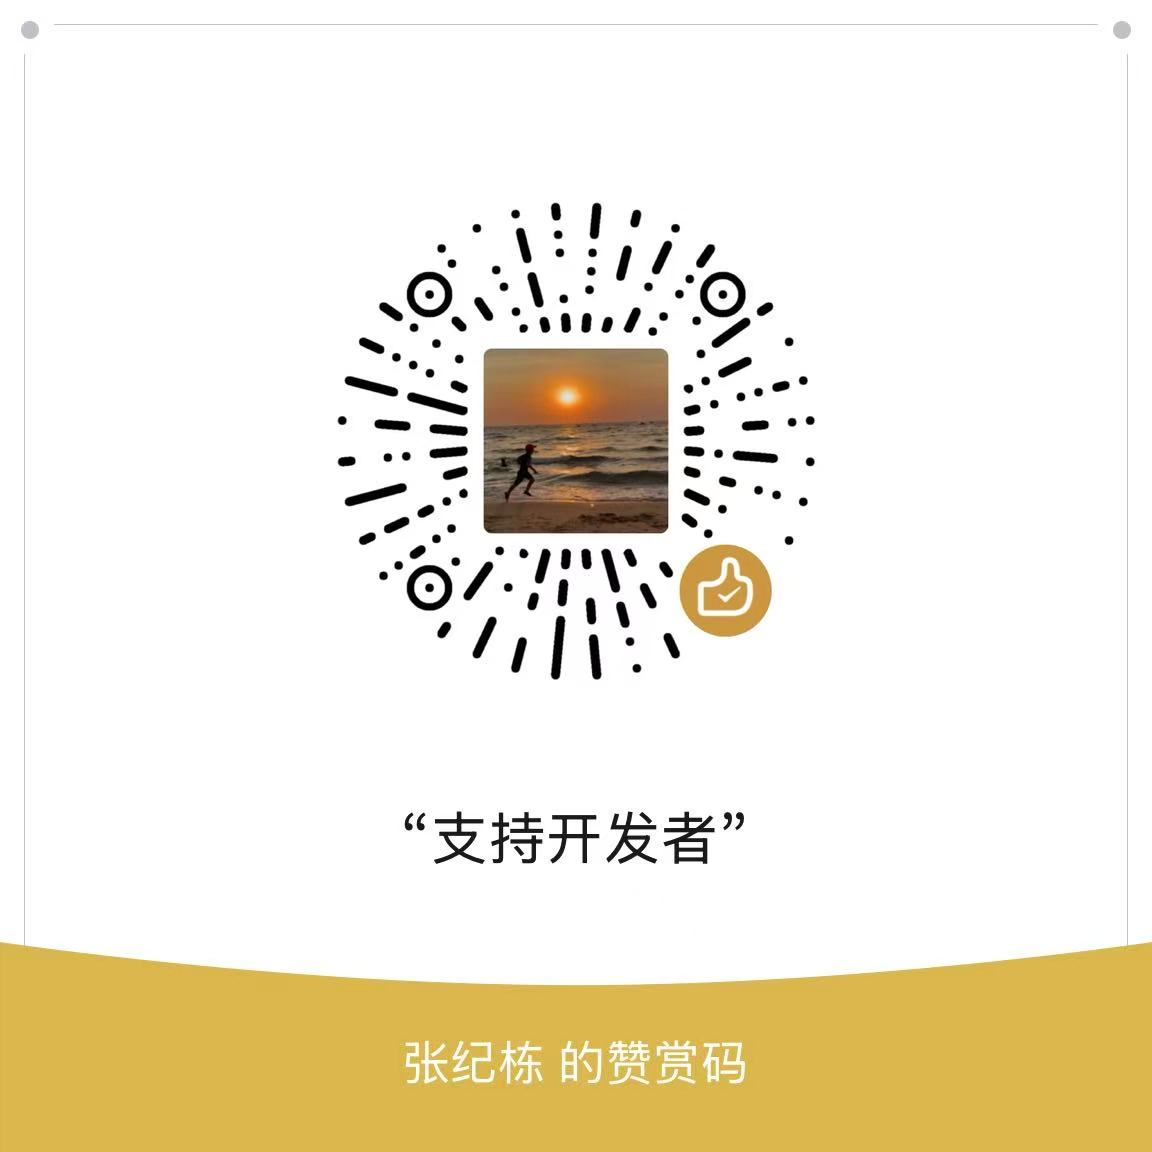
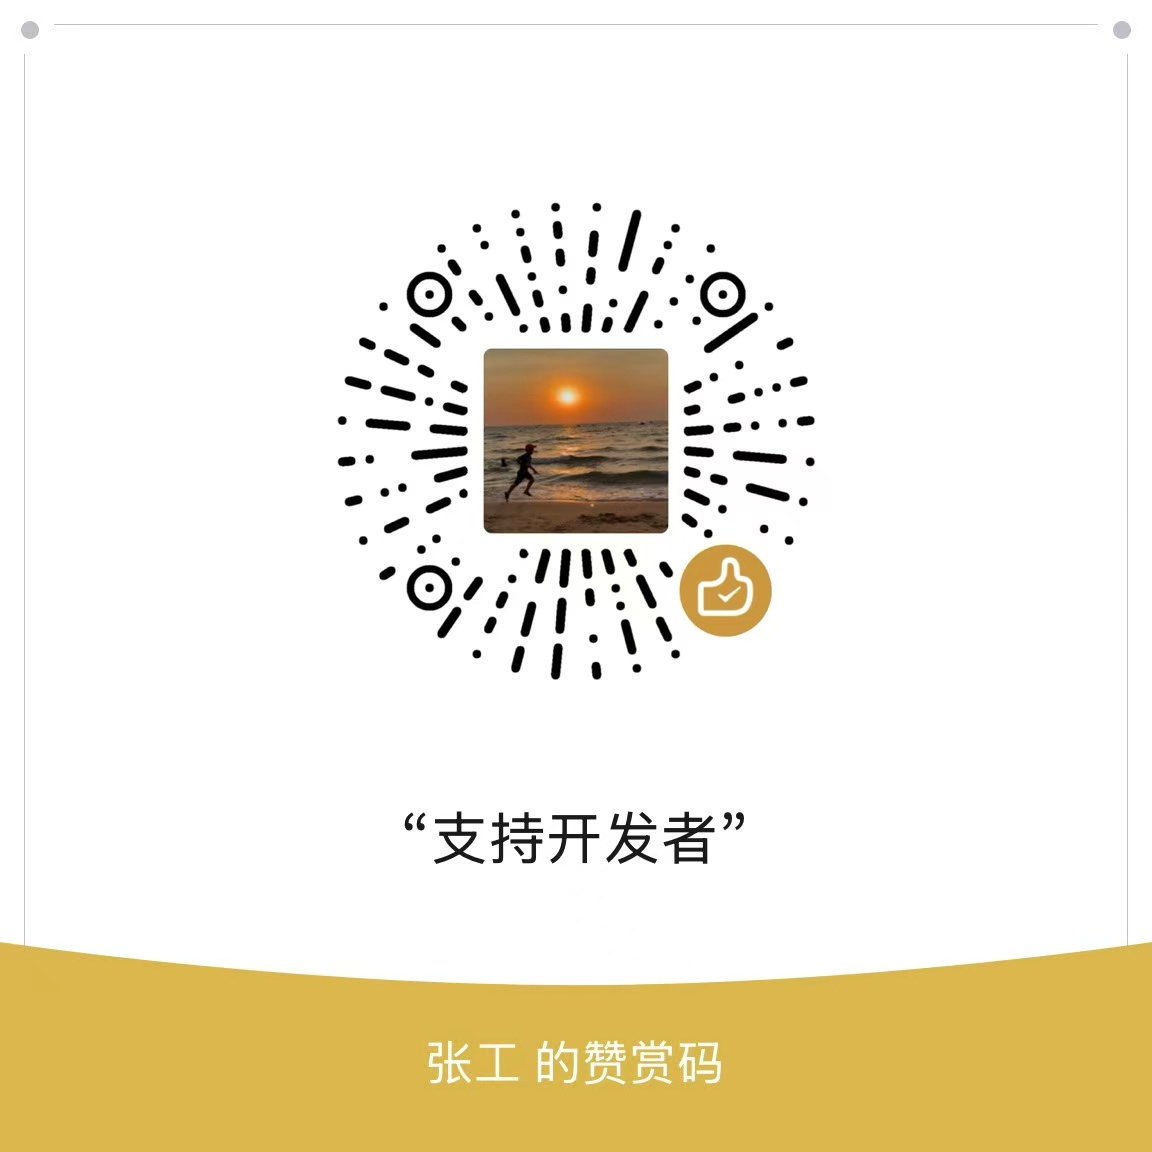
fix(候选窗): 竖排高亮铺满整行、纵向铺到候选间距中点；更新赞赏码图片

diff --git a/MoqiTextService/MoqiCandidateWindow.cpp b/MoqiTextService/MoqiCandidateWindow.cpp
@@ -850,8 +850,16 @@ void CandidateWindow::paintItem(HDC hdc, int index, int x, int y) {
         ::GetClientRect(hwnd_, &clientRc);
 
         if (candPerRow_ == 1) {
-            highlightRc.left = borderWidth_ + padX_;
-            highlightRc.right = clientRc.right - borderWidth_ - padX_;
+            // 单列（竖排）：背景横向铺满整行、直达窗口内缘（两侧不再留 padX_ 空隙）；
+            // 纵向铺到与相邻候选的间距中点，首行/末行仍贴窗口边缘。
+            highlightRc.left = borderWidth_;
+            highlightRc.right = clientRc.right - borderWidth_;
+            if (row > 0) {
+                highlightRc.top = itemRc.top - rowSpacing_ / 2;
+            }
+            if (index + 1 < static_cast<int>(items_.size())) {
+                highlightRc.bottom = itemRc.bottom + rowSpacing_ / 2;
+            }
         } else {
             // 微软拼音风格：行首选中项的背景贴到窗口左边缘；与右侧候选之间
             // 只铺到间距中点，避免背景紧贴下一个候选的序号。
